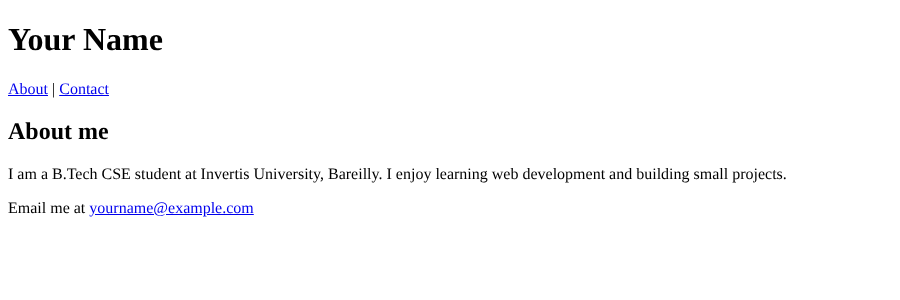
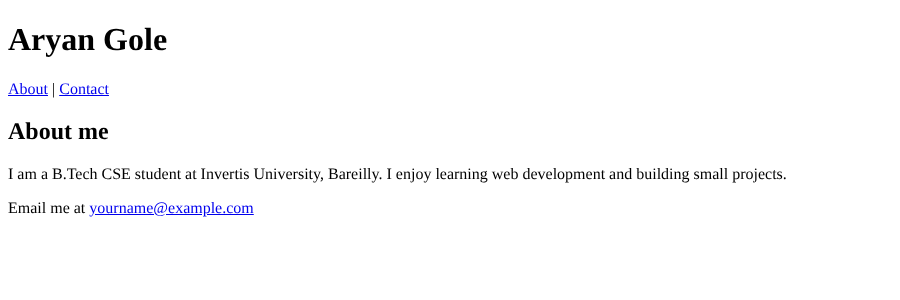
Add name, roll no and student ID

Changed region(s): [[0.0, 0.09, 0.1867, 0.18]]

diff --git a/assignment-07/about-me.html b/assignment-07/about-me.html
@@ -1,5 +1,5 @@
 <!DOCTYPE html>
-<!-- Name: Your Name | Roll No: Your Roll No | Assignment: 7 -->
+<!-- Name: Aryan Gole | Roll No: 2510303135 | Student ID: BCS2025444 | Assignment: 7 -->
 <html lang="en">
 <head>
   <meta charset="UTF-8">
@@ -7,7 +7,7 @@
 </head>
 <body>
   <header>
-    <h1>Your Name</h1>
+    <h1>Aryan Gole</h1>
     <nav>
       <a href="#about">About</a> |
       <a href="#contact">Contact</a>

diff --git a/assignment-10/style.css b/assignment-10/style.css
@@ -1,4 +1,4 @@
-/* Name: Your Name | Roll No: Your Roll No | Assignment: 10 */
+/* Name: Aryan Gole | Roll No: 2510303135 | Student ID: BCS2025444 | Assignment: 10 */
 h1 { color: navy; }
 .note { font-style: italic; }
 #title { text-decoration: underline; }

diff --git a/assignment-10/inline-internal.html b/assignment-10/inline-internal.html
@@ -1,5 +1,5 @@
 <!DOCTYPE html>
-<!-- Name: Your Name | Roll No: Your Roll No | Assignment: 10 -->
+<!-- Name: Aryan Gole | Roll No: 2510303135 | Student ID: BCS2025444 | Assignment: 10 -->
 <html lang="en">
 <head>
   <meta charset="UTF-8">

diff --git a/assignment-10/linked.html b/assignment-10/linked.html
@@ -1,5 +1,5 @@
 <!DOCTYPE html>
-<!-- Name: Your Name | Roll No: Your Roll No | Assignment: 10 -->
+<!-- Name: Aryan Gole | Roll No: 2510303135 | Student ID: BCS2025444 | Assignment: 10 -->
 <html lang="en">
 <head>
   <meta charset="UTF-8">

diff --git a/assignment-11/tokens-demo.html b/assignment-11/tokens-demo.html
@@ -1,5 +1,5 @@
 <!DOCTYPE html>
-<!-- Name: Your Name | Roll No: Your Roll No | Assignment: 11 -->
+<!-- Name: Aryan Gole | Roll No: 2510303135 | Student ID: BCS2025444 | Assignment: 11 -->
 <html lang="en">
 <head>
   <meta charset="UTF-8">

diff --git a/assignment-11/units.html b/assignment-11/units.html
@@ -1,5 +1,5 @@
 <!DOCTYPE html>
-<!-- Name: Your Name | Roll No: Your Roll No | Assignment: 11 -->
+<!-- Name: Aryan Gole | Roll No: 2510303135 | Student ID: BCS2025444 | Assignment: 11 -->
 <html lang="en">
 <head>
   <meta charset="UTF-8">

diff --git a/assignment-11/variables.html b/assignment-11/variables.html
@@ -1,5 +1,5 @@
 <!DOCTYPE html>
-<!-- Name: Your Name | Roll No: Your Roll No | Assignment: 11 -->
+<!-- Name: Aryan Gole | Roll No: 2510303135 | Student ID: BCS2025444 | Assignment: 11 -->
 <html lang="en">
 <head>
   <meta charset="UTF-8">

diff --git a/assignment-12/box-model.html b/assignment-12/box-model.html
@@ -1,5 +1,5 @@
 <!DOCTYPE html>
-<!-- Name: Your Name | Roll No: Your Roll No | Assignment: 12 -->
+<!-- Name: Aryan Gole | Roll No: 2510303135 | Student ID: BCS2025444 | Assignment: 12 -->
 <html lang="en">
 <head>
   <meta charset="UTF-8">

diff --git a/assignment-12/card.html b/assignment-12/card.html
@@ -1,5 +1,5 @@
 <!DOCTYPE html>
-<!-- Name: Your Name | Roll No: Your Roll No | Assignment: 12 -->
+<!-- Name: Aryan Gole | Roll No: 2510303135 | Student ID: BCS2025444 | Assignment: 12 -->
 <html lang="en">
 <head>
   <meta charset="UTF-8">

diff --git a/assignment-12/scroll.html b/assignment-12/scroll.html
@@ -1,5 +1,5 @@
 <!DOCTYPE html>
-<!-- Name: Your Name | Roll No: Your Roll No | Assignment: 12 -->
+<!-- Name: Aryan Gole | Roll No: 2510303135 | Student ID: BCS2025444 | Assignment: 12 -->
 <html lang="en">
 <head>
   <meta charset="UTF-8">

diff --git a/assignment-13/centred-cards.html b/assignment-13/centred-cards.html
@@ -1,5 +1,5 @@
 <!DOCTYPE html>
-<!-- Name: Your Name | Roll No: Your Roll No | Assignment: 13 -->
+<!-- Name: Aryan Gole | Roll No: 2510303135 | Student ID: BCS2025444 | Assignment: 13 -->
 <html lang="en">
 <head>
   <meta charset="UTF-8">

diff --git a/assignment-13/nav-flex.html b/assignment-13/nav-flex.html
@@ -1,5 +1,5 @@
 <!DOCTYPE html>
-<!-- Name: Your Name | Roll No: Your Roll No | Assignment: 13 -->
+<!-- Name: Aryan Gole | Roll No: 2510303135 | Student ID: BCS2025444 | Assignment: 13 -->
 <html lang="en">
 <head>
   <meta charset="UTF-8">
